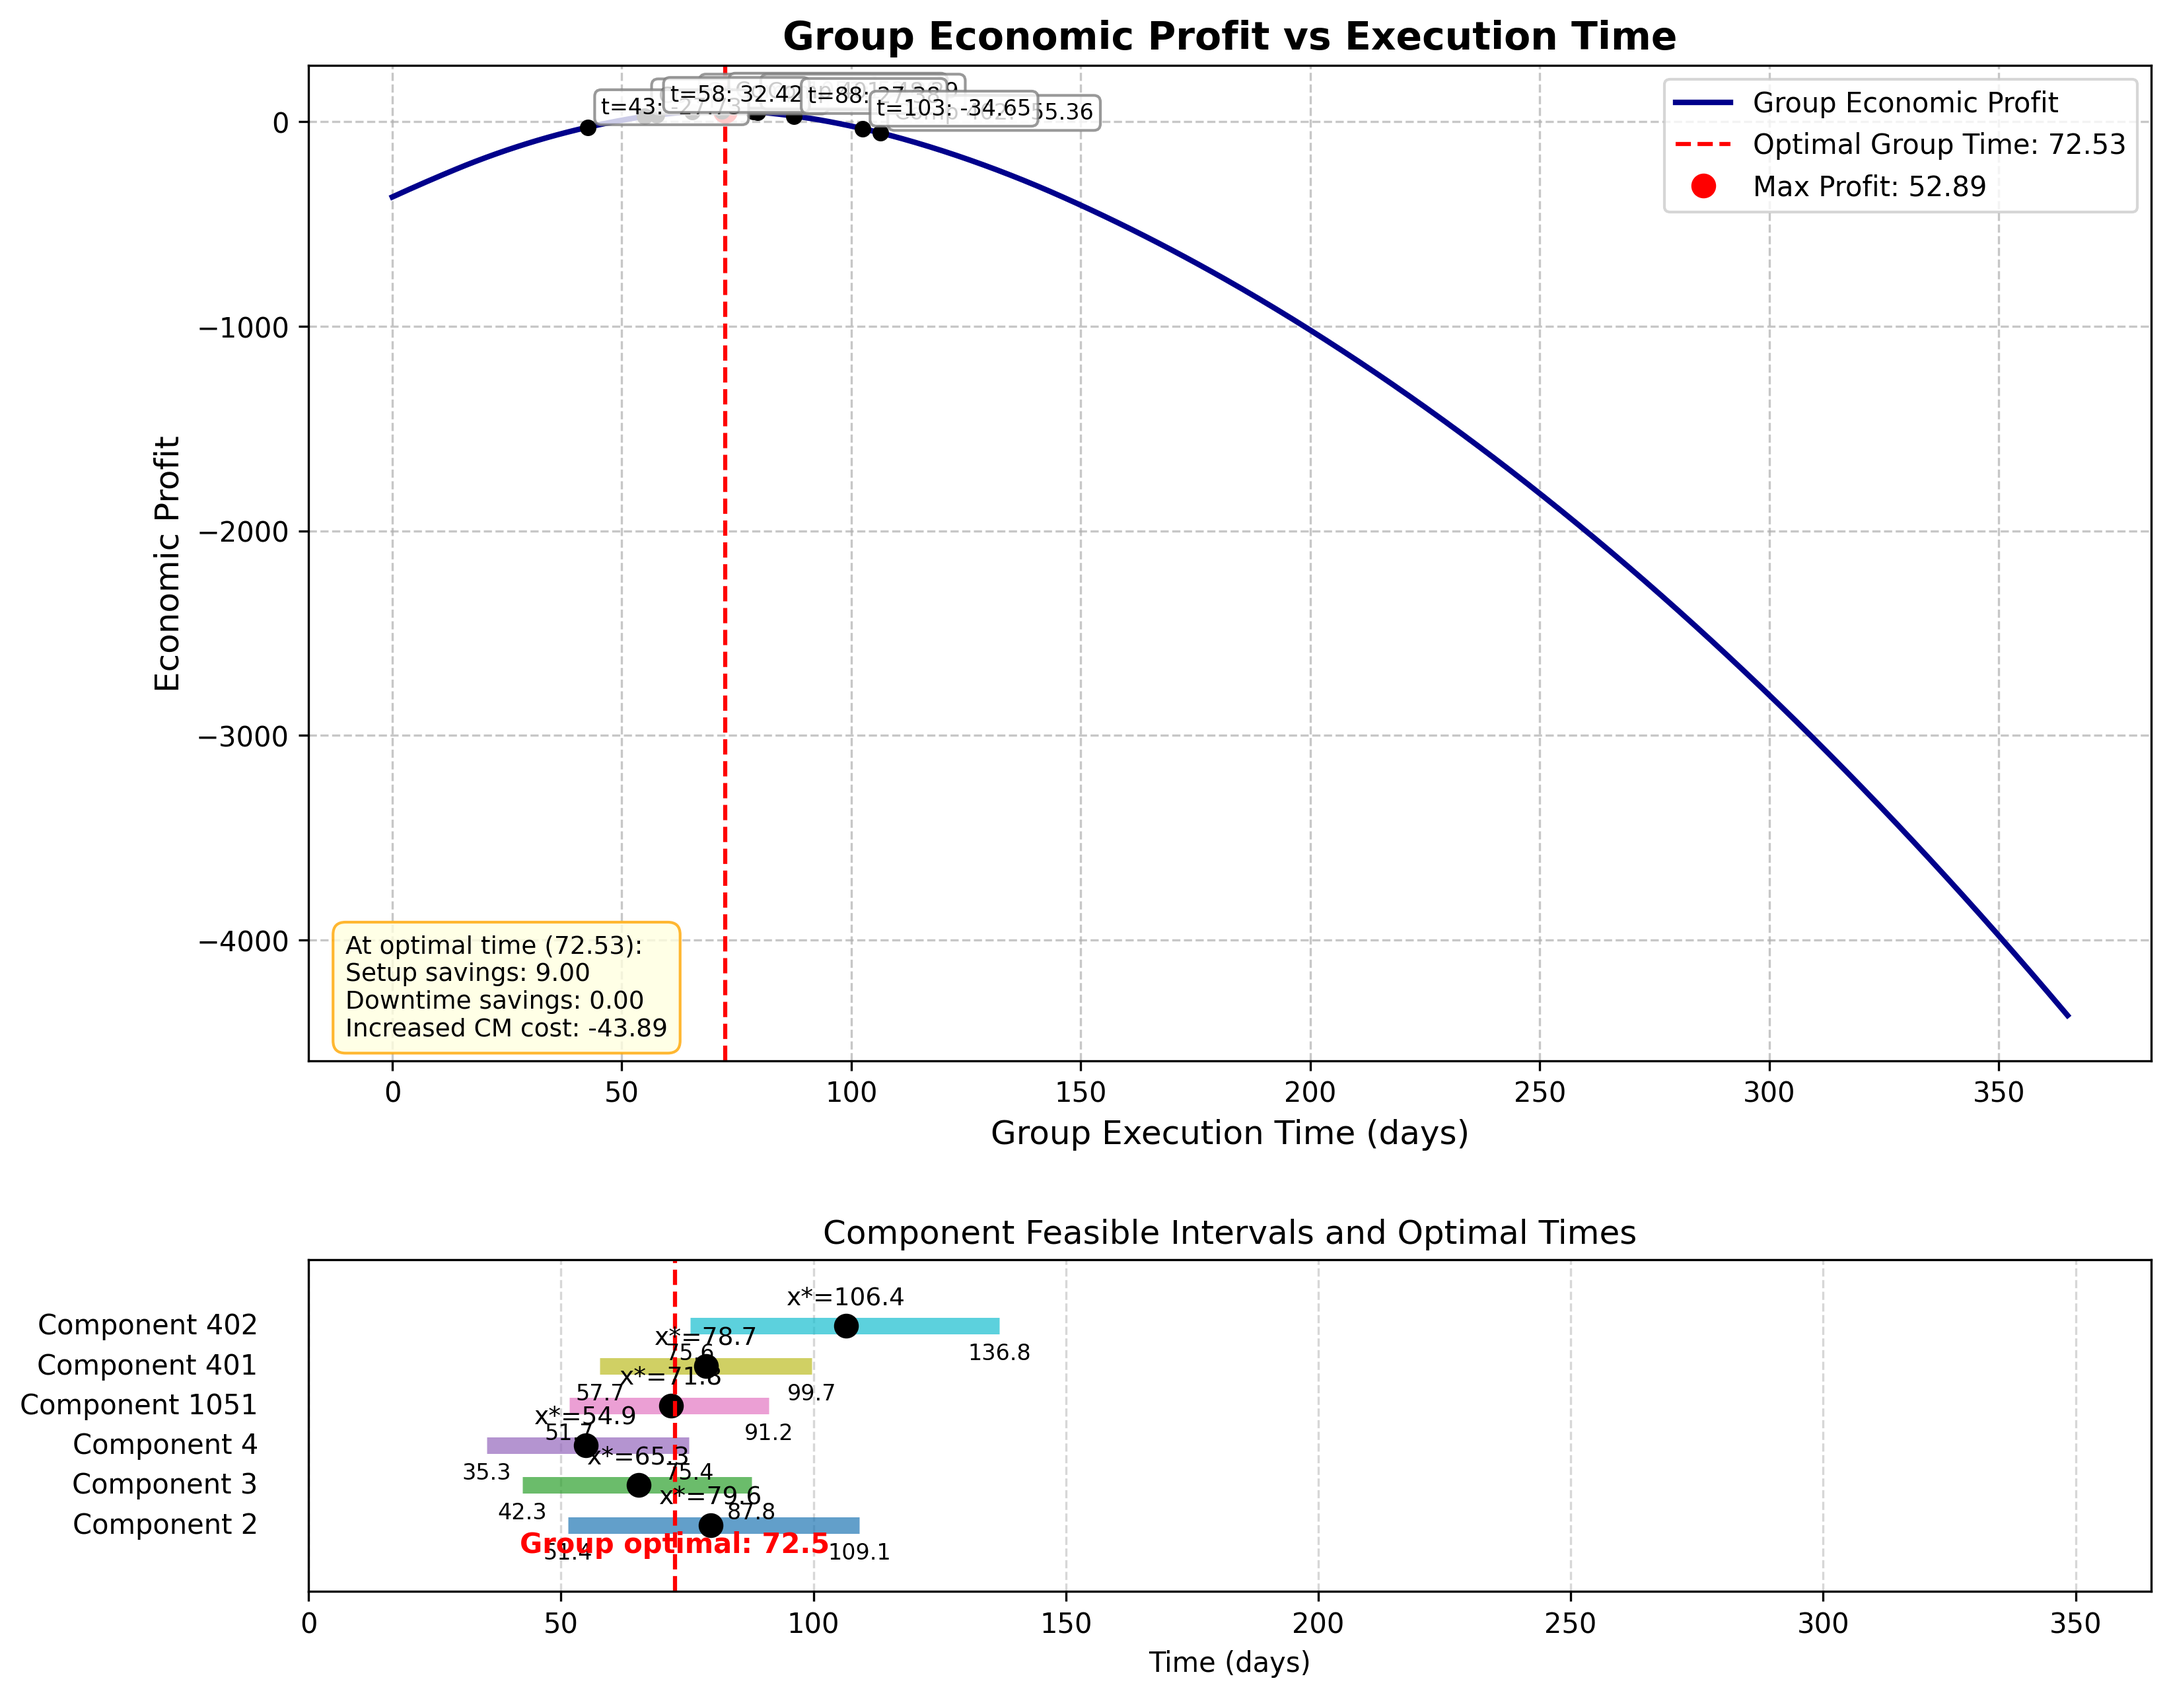
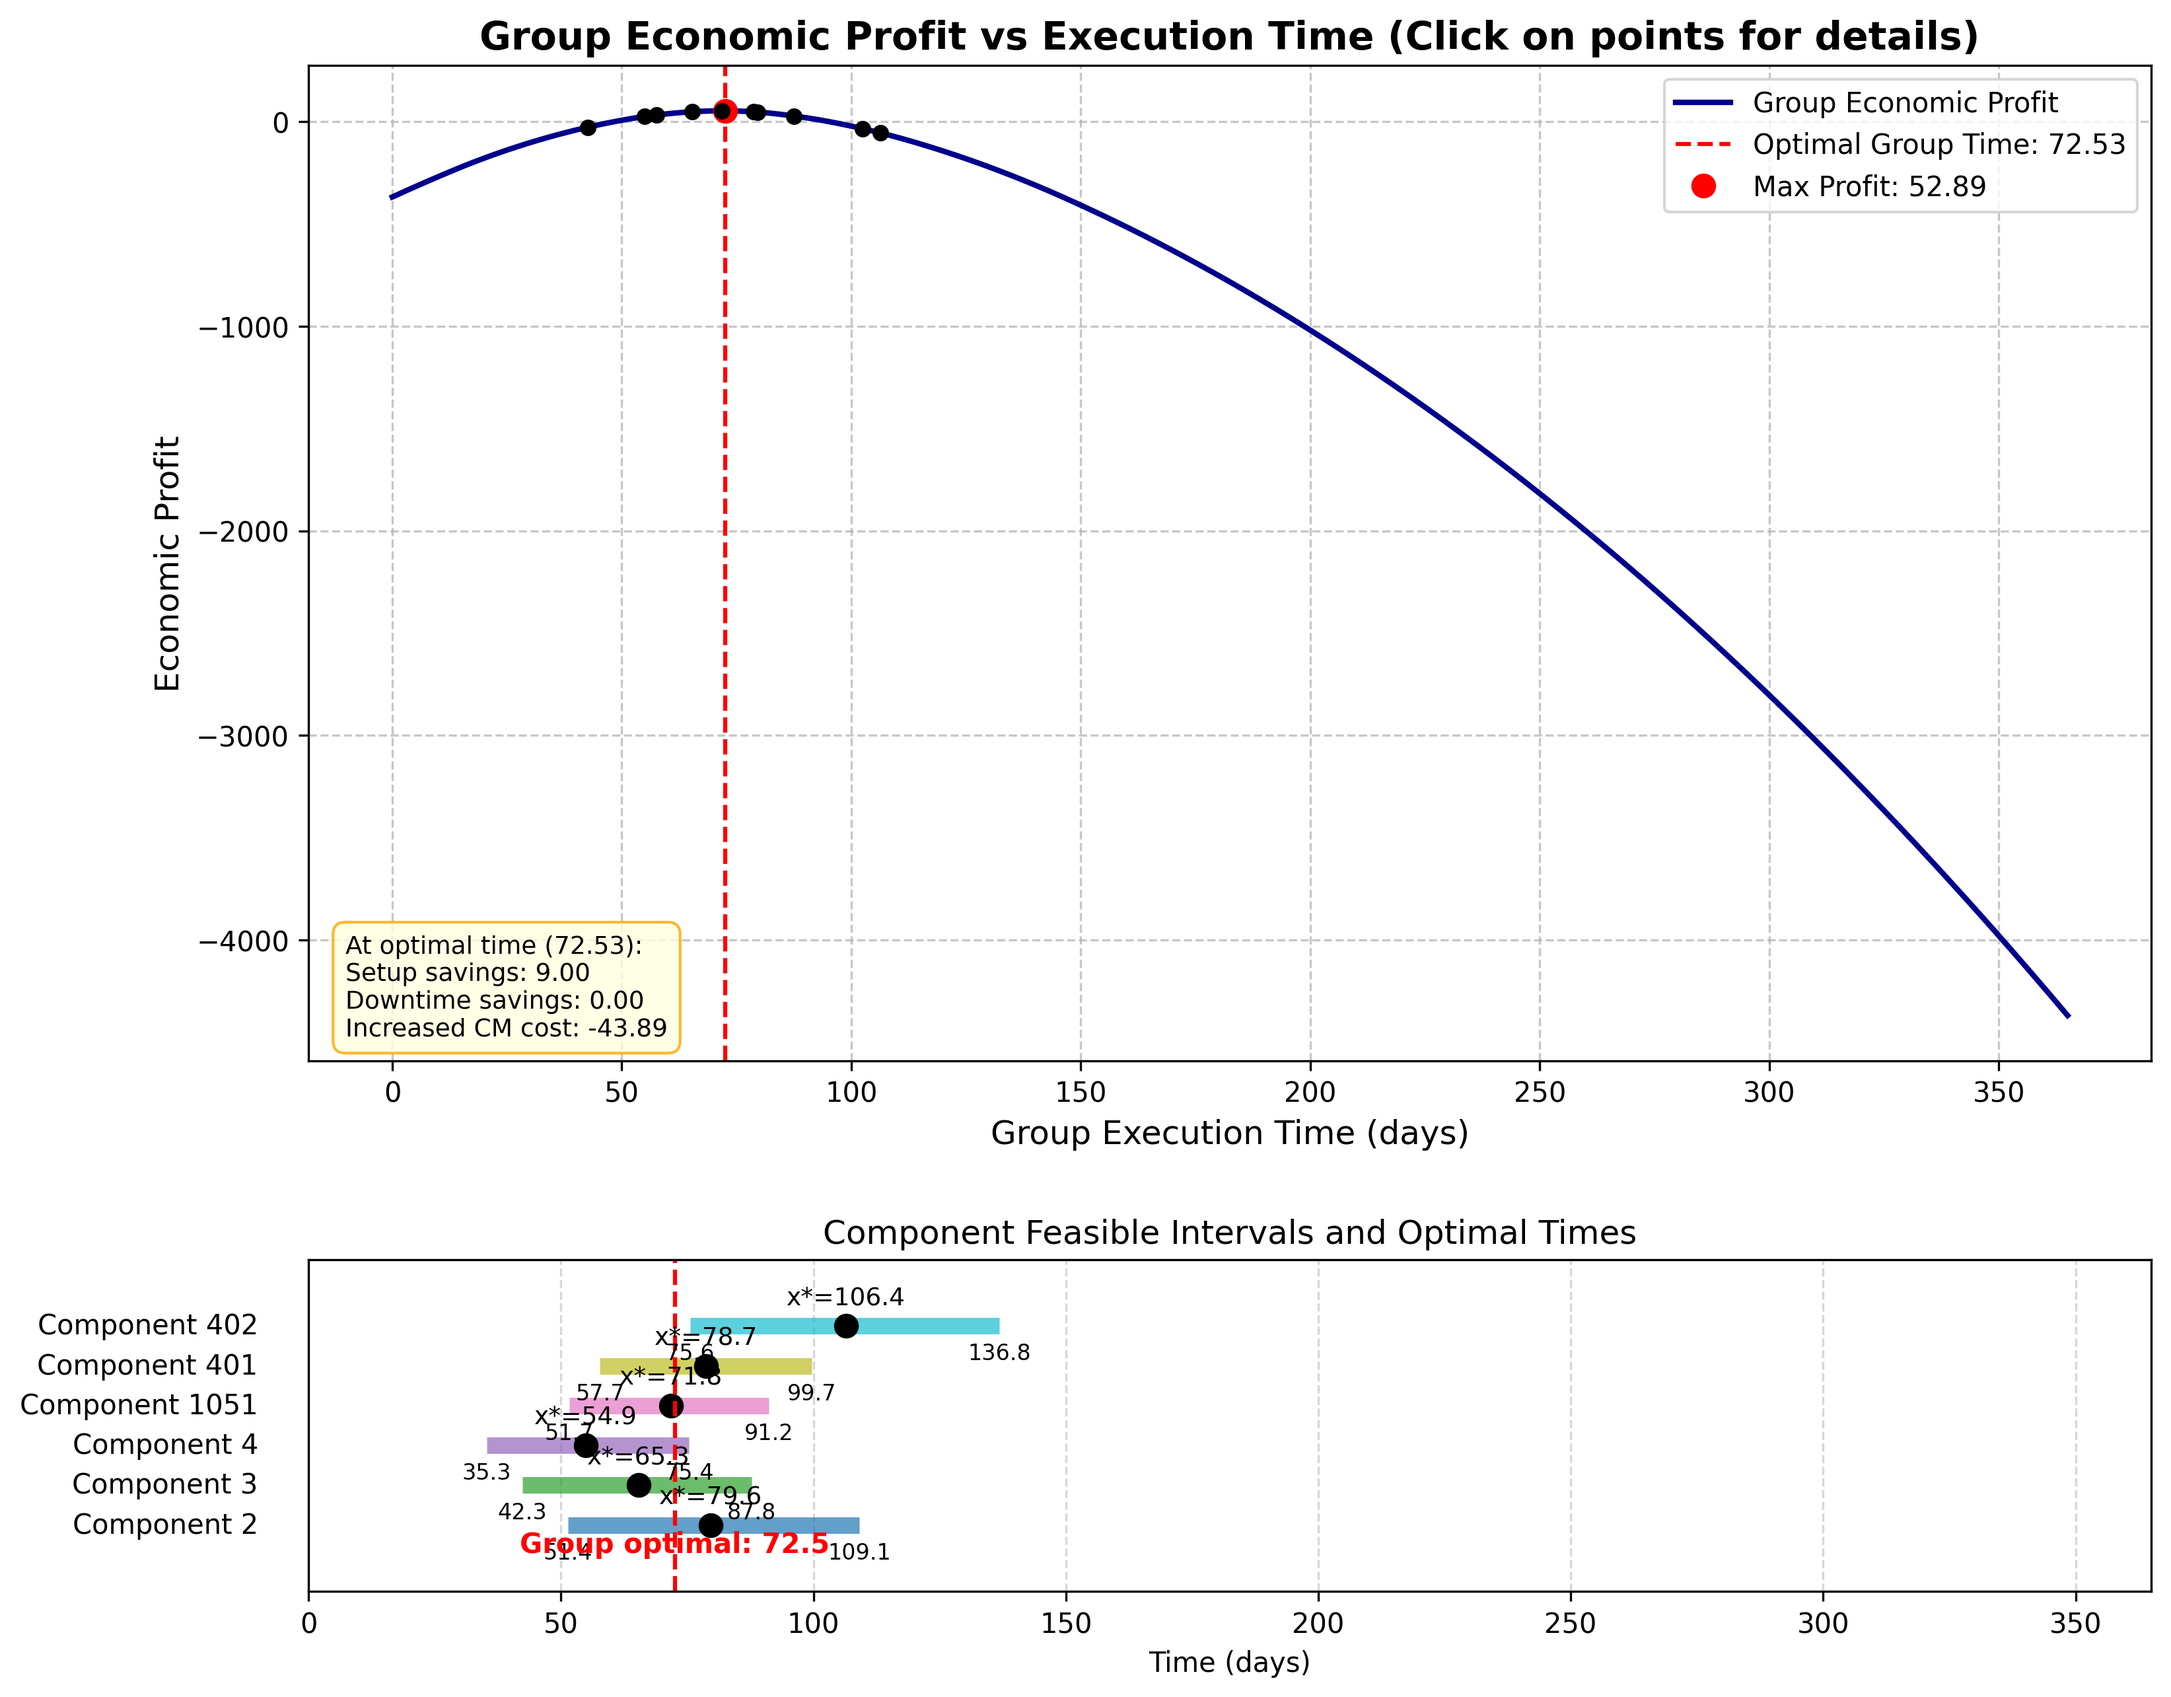
Improve visualisations

Changed region(s): [[0.2172, 0.0, 0.8999, 0.0934]]

diff --git a/visualizations.py b/visualizations.py
@@ -61,6 +61,7 @@ def visualize_optimal_execution_time_distribution(components, bins=30, show_cr_d
 def plot_group_economic_profit(example_group, get_production_line_by_id, find_optimal_group_time):
     import matplotlib.pyplot as plt
     import numpy as np
+    import mplcursors  # For interactive labels
     
     # Define a range of group execution times
     t_values = np.linspace(0, 365, 500)
@@ -73,25 +74,21 @@ def plot_group_economic_profit(example_group, get_production_line_by_id, find_op
     group_time_opt, _ = find_optimal_group_time(example_group)
     profit_at_opt, details_at_opt = compute_group_economic_profit(example_group, group_time_opt, get_production_line_by_id)
 
-    # Create a figure with two subplots - main plot and a smaller one for component intervals
+    # Create a figure with two subplots
     fig, (ax1, ax2) = plt.subplots(2, 1, figsize=(12, 10), height_ratios=[3, 1], gridspec_kw={'hspace': 0.3})
 
     # Main plot - Economic profit vs group execution time
-    ax1.plot(t_values, profits, label="Group Economic Profit", color='darkblue', linewidth=2)
+    main_line, = ax1.plot(t_values, profits, label="Group Economic Profit", color='darkblue', linewidth=2)
+    opt_line = ax1.axvline(x=group_time_opt, color='red', linestyle='--', linewidth=1.5, 
+                          label=f"Optimal Group Time: {group_time_opt:.2f}")
+    opt_point = ax1.plot(group_time_opt, profit_at_opt, 'ro', markersize=8, 
+                        label=f"Max Profit: {profit_at_opt:.2f}")[0]
 
-    # Mark the group optimal execution time with a vertical line
-    ax1.axvline(x=group_time_opt, color='red', linestyle='--', linewidth=1.5, 
-                label=f"Optimal Group Time: {group_time_opt:.2f}")
-    ax1.plot(group_time_opt, profit_at_opt, 'ro', markersize=8, 
-             label=f"Max Profit: {profit_at_opt:.2f}")
-
-    # Add key profit values with annotations
-    # Add points at specific times (optimal component times and a few others)
+    # Plot key points (component optimal times and some additional points)
     key_points = []
     for comp in example_group.components:
         key_points.append(comp.optimal_execution_time)
 
-    # Add a few more points to verify optimality
     additional_points = [
         group_time_opt - 30, 
         group_time_opt - 15,
@@ -100,26 +97,12 @@ def plot_group_economic_profit(example_group, get_production_line_by_id, find_op
     ]
     key_points.extend(additional_points)
 
-    # Plot and annotate these key points
+    key_lines = []
     for point in key_points:
         if 0 <= point <= 365:
             profit_at_point, _ = compute_group_economic_profit(example_group, point, get_production_line_by_id)
-            ax1.plot(point, profit_at_point, 'ko', markersize=5)
-            
-            # Only annotate points with significant differences for clarity
-            if abs(profit_at_point - profit_at_opt) > 0.5 or point in [c.optimal_execution_time for c in example_group.components]:
-                if point in [c.optimal_execution_time for c in example_group.components]:
-                    comp_id = next(c.id for c in example_group.components if c.optimal_execution_time == point)
-                    label = f"Comp {int(comp_id)}: {profit_at_point:.2f}"
-                else:
-                    label = f"t={point:.0f}: {profit_at_point:.2f}"
-                    
-                ax1.annotate(label, 
-                            xy=(point, profit_at_point),
-                            xytext=(5, 5),
-                            textcoords='offset points',
-                            fontsize=8,
-                            bbox=dict(boxstyle="round,pad=0.3", fc="white", ec="gray", alpha=0.8))
+            line = ax1.plot(point, profit_at_point, 'ko', markersize=5)[0]
+            key_lines.append(line)
 
     # Setup profit breakdown at optimal time
     breakdown_text = (f"At optimal time ({group_time_opt:.2f}):\n"
@@ -133,7 +116,7 @@ def plot_group_economic_profit(example_group, get_production_line_by_id, find_op
             fontsize=9, verticalalignment='bottom')
 
     # Finalize main plot
-    ax1.set_title("Group Economic Profit vs Execution Time", fontsize=14, fontweight='bold')
+    ax1.set_title("Group Economic Profit vs Execution Time (Click on points for details)", fontsize=14, fontweight='bold')
     ax1.set_xlabel("Group Execution Time (days)", fontsize=12)
     ax1.set_ylabel("Economic Profit", fontsize=12)
     ax1.grid(True, linestyle='--', alpha=0.7)
@@ -143,41 +126,59 @@ def plot_group_economic_profit(example_group, get_production_line_by_id, find_op
     colors = plt.cm.tab10(np.linspace(0, 1, len(example_group.components)))
     component_y_positions = np.linspace(0.2, 0.8, len(example_group.components))
 
-    # Component intervals and optimal times
     for i, comp in enumerate(example_group.components):
         y_pos = component_y_positions[i]
         x_star = comp.optimal_execution_time
         interval = find_feasible_interval(comp, get_production_line_by_id)
         
-        # Component label
         ax2.text(-10, y_pos, f"Component {int(comp.id)}", va='center', ha='right', fontsize=10)
         
-        # Feasible interval as a colored bar
         if interval:
             ax2.plot([interval[0], interval[1]], [y_pos, y_pos], '-', 
                     linewidth=6, solid_capstyle='butt', alpha=0.7, color=colors[i],
                     label=f"Component {int(comp.id)} interval")
             
-            # Interval boundaries
             ax2.text(interval[0], y_pos-0.05, f"{interval[0]:.1f}", ha='center', va='top', fontsize=8)
             ax2.text(interval[1], y_pos-0.05, f"{interval[1]:.1f}", ha='center', va='top', fontsize=8)
         
-        # Component's optimal time
         ax2.plot(x_star, y_pos, 'ko', markersize=8)
         ax2.text(x_star, y_pos+0.05, f"x*={x_star:.1f}", ha='center', va='bottom', fontsize=9)
 
-    # Mark the group optimal time in the interval subplot
     ax2.axvline(x=group_time_opt, color='red', linestyle='--', linewidth=1.5)
     ax2.text(group_time_opt, 0.1, f"Group optimal: {group_time_opt:.1f}", 
              color='red', ha='center', va='bottom', fontsize=10, fontweight='bold')
 
-    # Finalize interval plot
     ax2.set_xlim([0, 365])
     ax2.set_ylim([0, 1])
     ax2.set_title("Component Feasible Intervals and Optimal Times", fontsize=12)
     ax2.set_xlabel("Time (days)", fontsize=10)
-    ax2.get_yaxis().set_visible(False)  # Hide y-axis as it's just for positioning
+    ax2.get_yaxis().set_visible(False)
     ax2.grid(True, axis='x', linestyle='--', alpha=0.5)
+
+    # Add interactive labels using mplcursors
+    cursor = mplcursors.cursor([main_line] + key_lines, hover=True)
+    
+    @cursor.connect("add")
+    def on_add(sel):
+        x, y = sel.target
+        if sel.artist == main_line:
+            # For points on the main line
+            sel.annotation.set_text(f"t = {x:.1f}\nProfit = {y:.2f}")
+        else:
+            # For key points
+            comp_id = None
+            for comp in example_group.components:
+                if abs(comp.optimal_execution_time - x) < 0.1:
+                    comp_id = int(comp.id)
+                    break
+            
+            if comp_id is not None:
+                sel.annotation.set_text(f"Component {comp_id}\nt = {x:.1f}\nProfit = {y:.2f}")
+            else:
+                sel.annotation.set_text(f"t = {x:.1f}\nProfit = {y:.2f}")
+        
+        sel.annotation.get_bbox_patch().set(fc="white", alpha=0.9)
+        sel.annotation.set_fontsize(10)
 
     plt.tight_layout()
     plt.savefig('group_maintenance_analysis.png', dpi=300, bbox_inches='tight')
